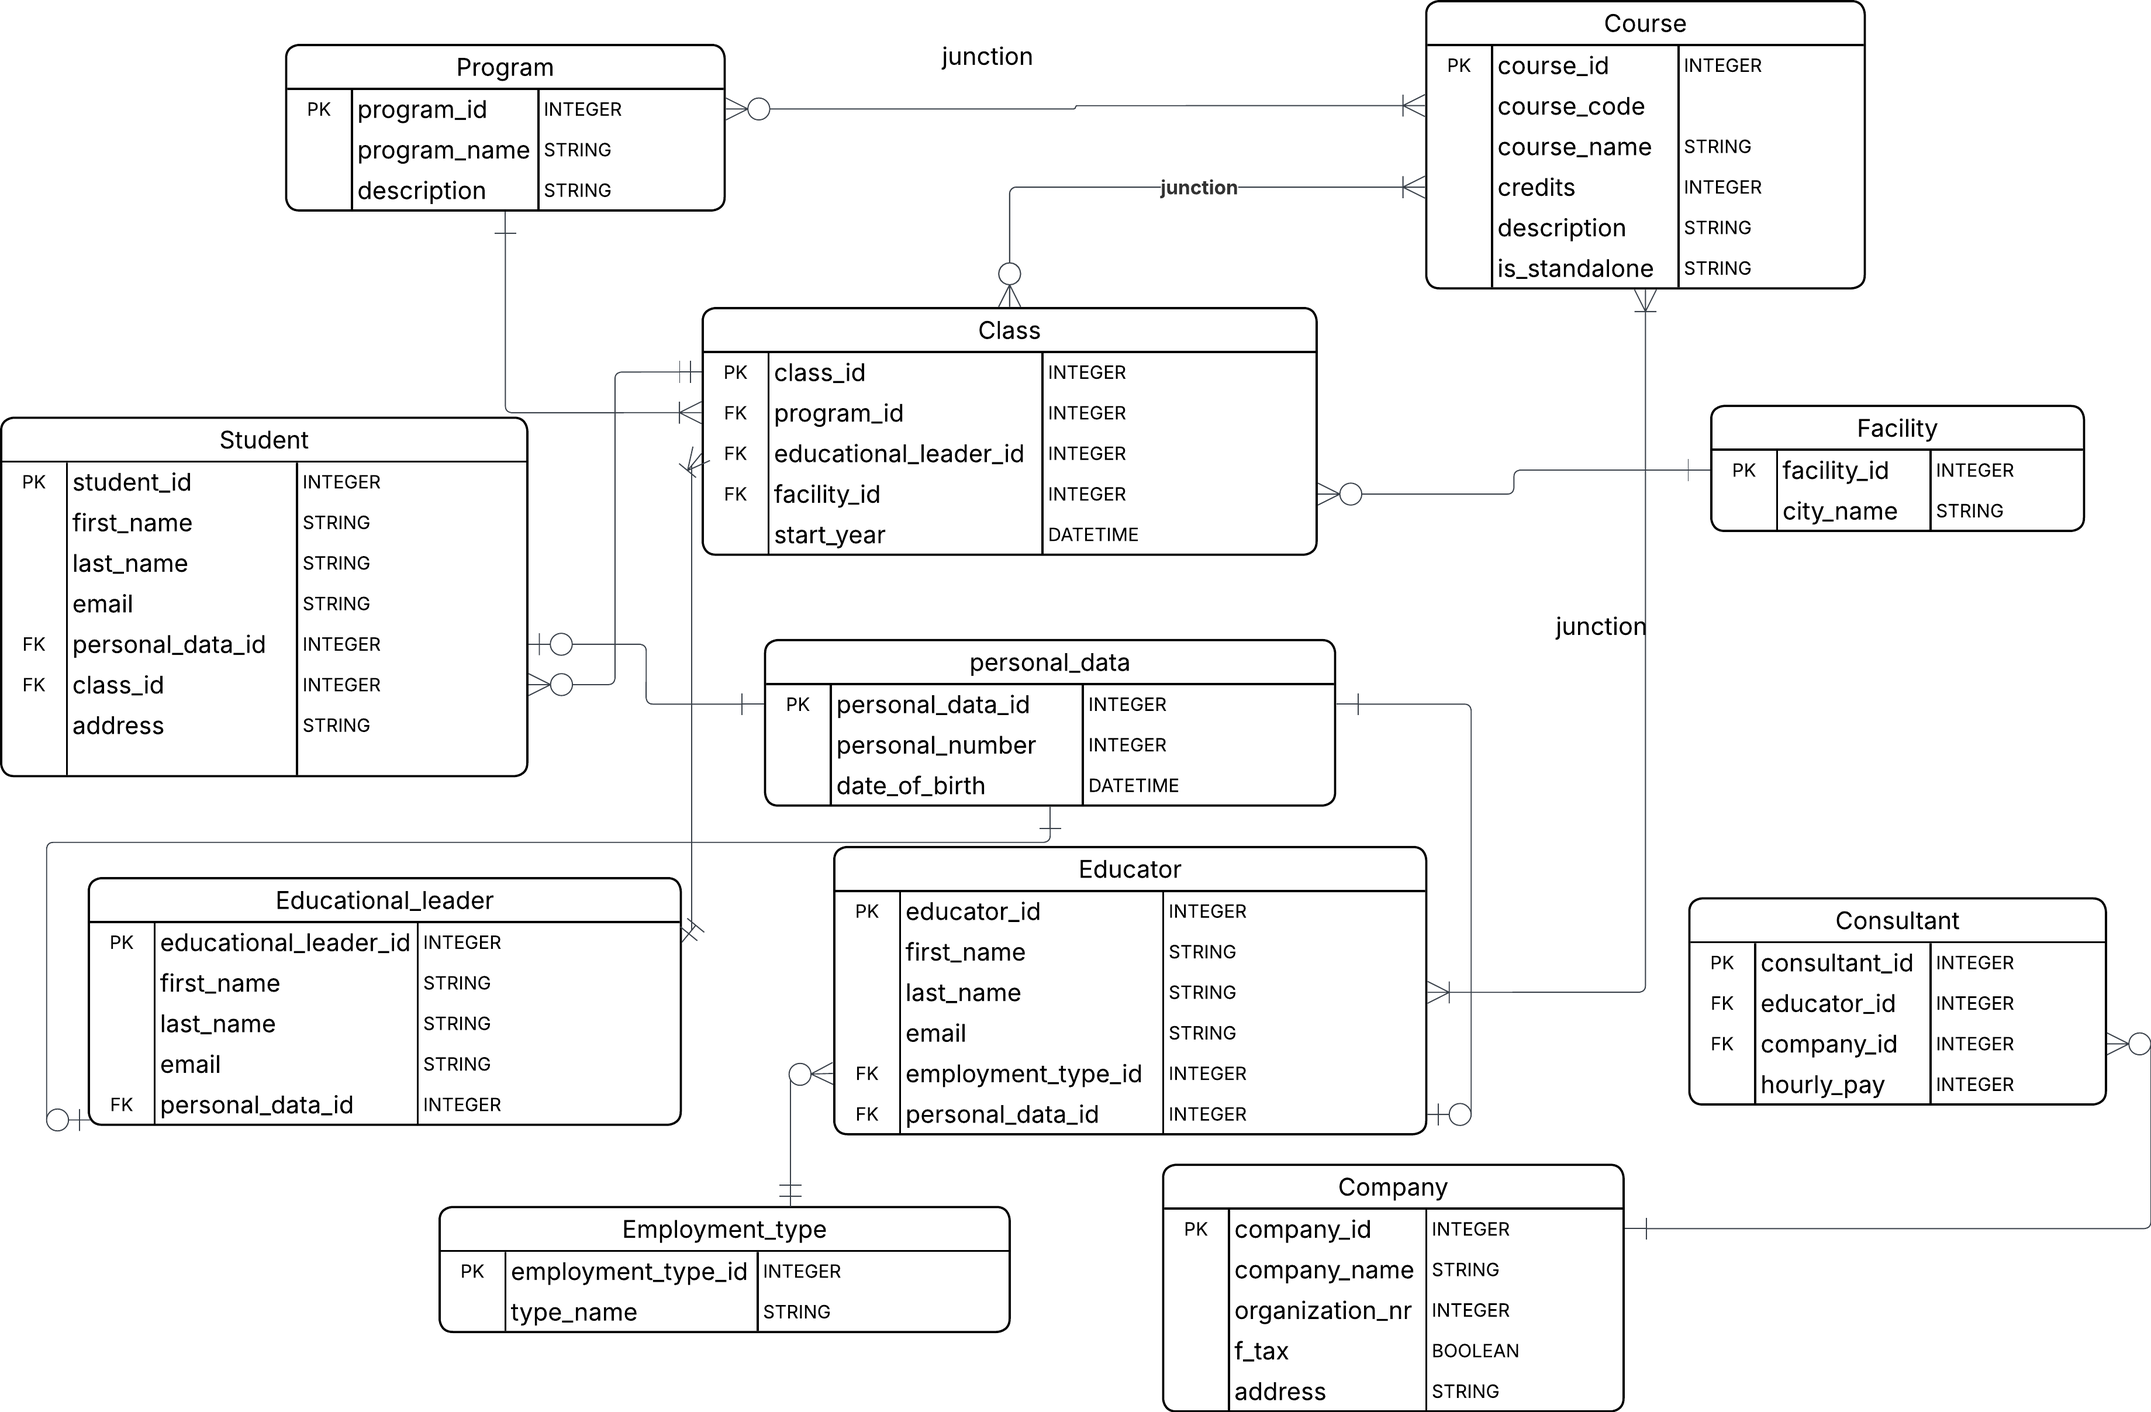
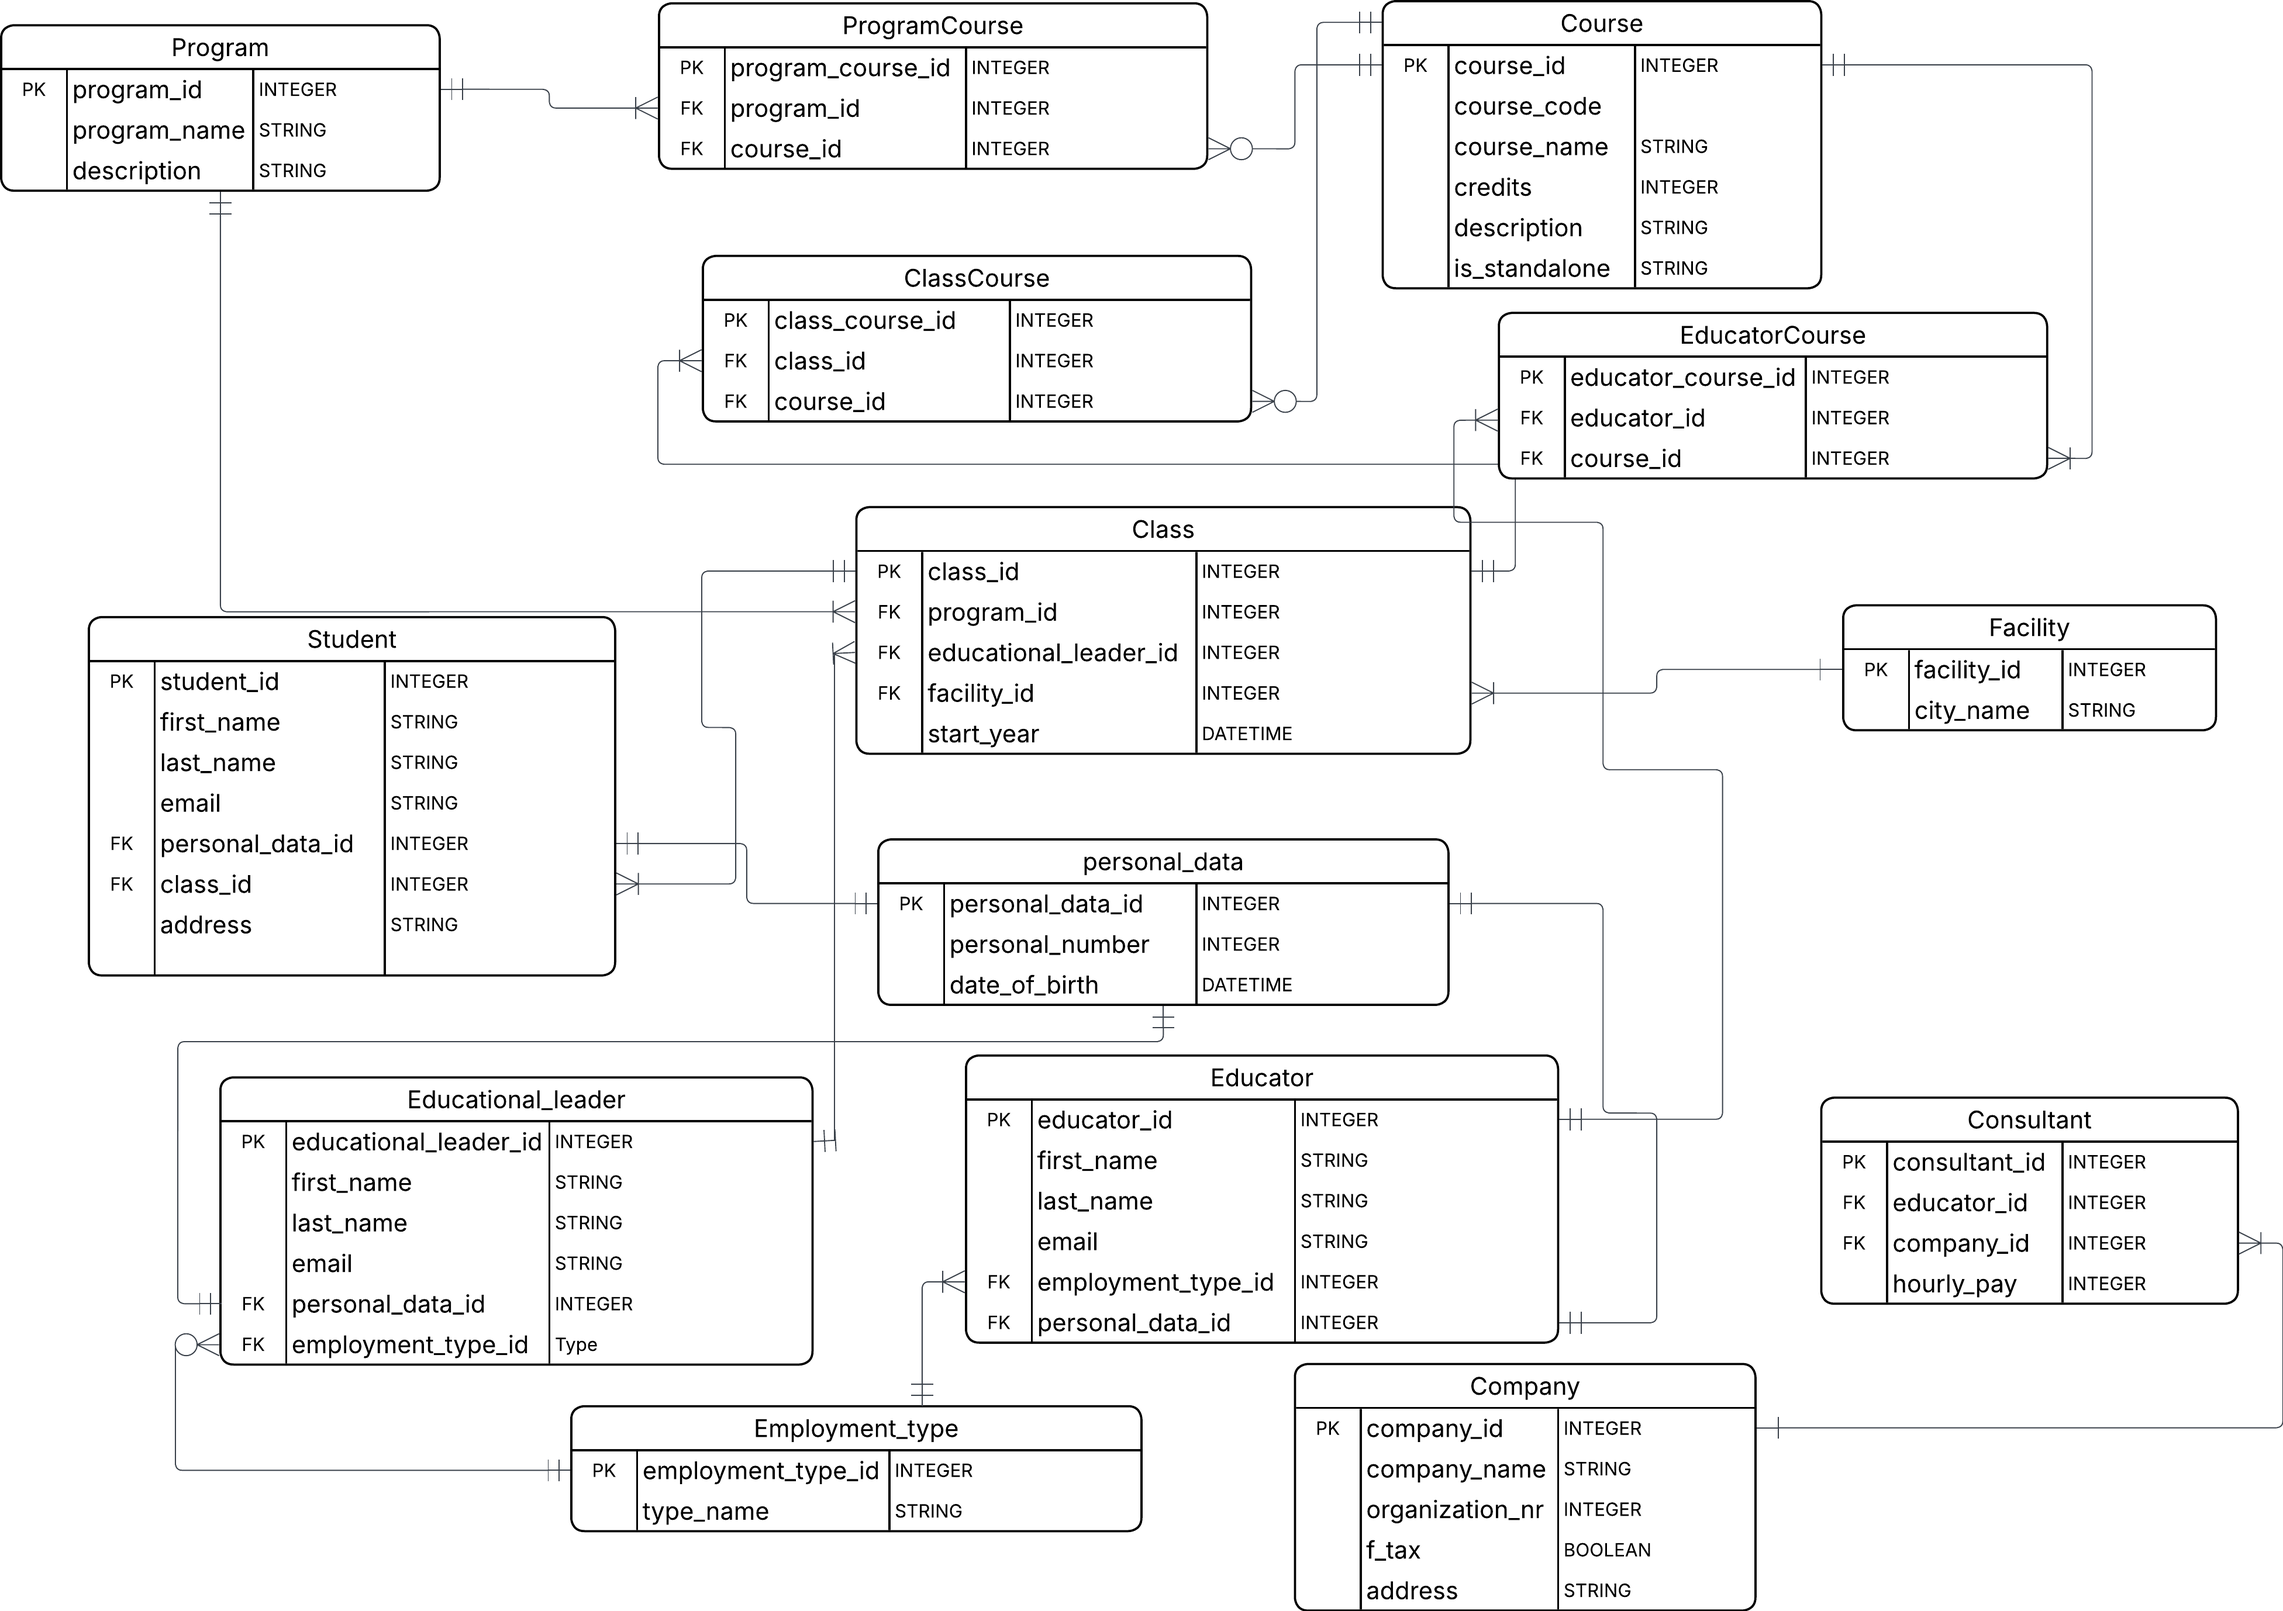
update .md and .png in conceptual and logical

diff --git a/conceptual/desc.md b/conceptual/desc.md
@@ -13,11 +13,11 @@
 
 **Class-Education_leader**
 - A Class is managed by *one and only* Education_leader
-- An education_leader manages *three and only three* Classes (business rule)
+- An education_leader manages *one or many* Clasees. (*three and only three*) Classes (business requirement)
 
 **Class-Program**
 - A Class belongs to *one and only one* Program
-- A Program has *three and only three* Classes (business rule)
+- A Program has *one or many* Classes .(*three and only three*)Classes (business requirement)
 
 **Program-Course**
 - A Program consists *one or many* Courses
@@ -36,29 +36,27 @@
 - An Employment_type may be associated with *zero or many* Educators
 
 
-**Educator-Consultant**
-
 
 **Consultant-Company**
 - A Consultant works for *one* Company
-- A Company may have *zero or many* consultants
+- A Company may have *one or many* consultants
 
 **Facility-Class**
 - A Facility may have *zero or many* Classes
 - A Class has their lectures/classes or takes place in *one* Facility
 
 **Personal_data-Student**
-- A Personal data can belong to *zero or one* Student
-- A Student may have *one* Personal data
+- A Personal data can belong to *one and only one* Student
+- A Student may have *one and only one* Personal data
 
 **Personal_data-Educational_leader**
-- A Personal data can belong to *zero or one* Educational leader
-- An Educational leader may have *one* Personal data
+- A Personal data can belong to *one and only one* Educational leader
+- An Educational leader may have *one and only one* Personal data
 
 
 **Personal_data-Educator**
-- A Personal data can belong to *zero or one* Educator
-- An Educator may have *one* Personal data
+- A Personal data can belong to *one and only one* Educator
+- An Educator may have *one and only one* Personal data
 
 
 

diff --git a/logical/desc.md b/logical/desc.md
@@ -4,3 +4,38 @@
 **Logical ERD**
 
 <img src = "ldm.png" width =500>
+
+**Many to Many Relationship junctions based on the Conceptual modeling**
+**ProgramCourse**
+
+**Program-ProgramCourse**
+- A Program is associated with one or many ProgramCourse records
+- A ProgramCourse record belongs to one and only one Program
+
+**Course-ProgramCourse**
+- A Course may be associated with zero or many ProgramCourse records
+- A ProgramCourse record belongs to one and only one Course
+
+- Business requirement: Courses may exist independently(standalone)
+
+**ClassCourse**
+
+**Class-ClassCourse**
+- A Class is associated with one or many ClassCourse records
+- A ClassCourse record belongs to one and only one Class
+
+**Course-ClassCourse**
+- A Course may be associated with zero or many ClassCourse records
+- A ClassCourse record belongs to one and only one Course
+
+**EducatorCourse**
+
+**Course-EducatorCourse**
+- An Educator may be associated with one or many EducatorCourse records
+- An EducatorCourse record belongs to one and only one Educator
+
+**Course-EducatorCourse**
+- A Course is associated with one or many EducatorCourse records
+- An EducatorCourse record belongs to one and only one Course
+
+
